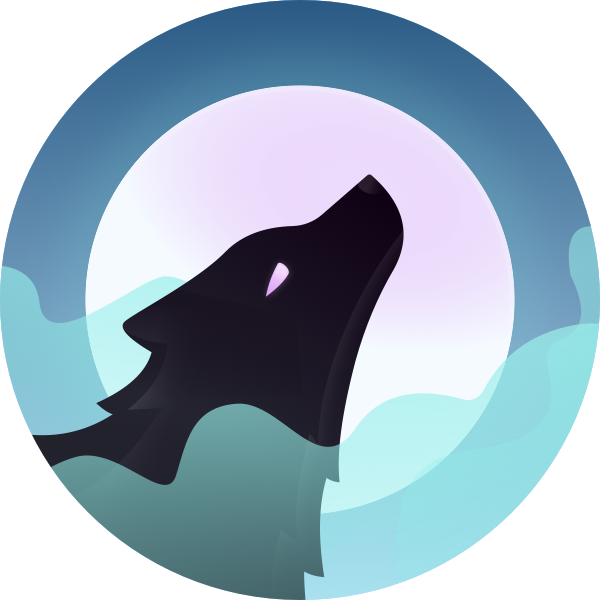
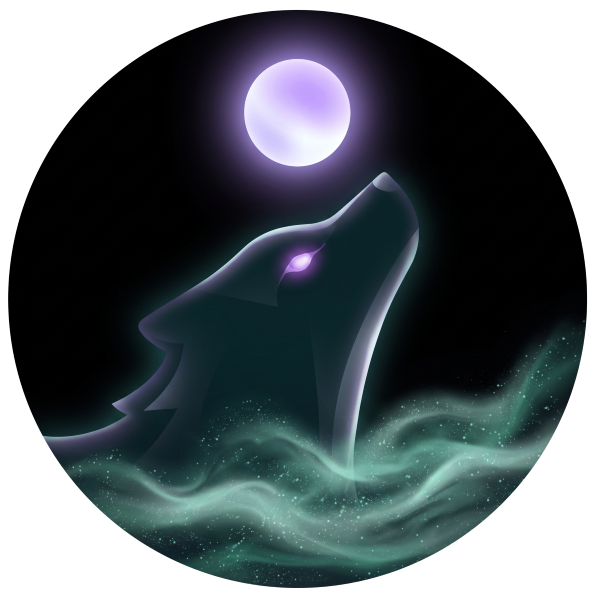
feat: rebrand

diff --git a/README.md b/README.md
@@ -1,6 +1,8 @@
 # donato ariake dark
 
-![Title image](assets/ariake_dark_github.png)
+<p align="center">
+ <img src="assets/icon.png" alt="donato ariake dark logo" width="300"/>
+</p>
 
 <p align="center">
   <a href="https://marketplace.visualstudio.com/items?itemName=ebdonato.donato-ariake-dark">VS Code Marketplace</a>
@@ -8,12 +10,16 @@
   <a href="https://open-vsx.org/extension/ebdonato/donato-ariake-dark">Open VSX Registry</a>
 </p>
 
-Dark theme for VS Code and Google Antigravity IDE, forked from [Ariake Dark](https://github.com/a-wart/ariake-dark) by [Artem](https://github.com/a-wart), and that one forked from [Ariake Dark](https://github.com/pathtrk/ariake-dark-syntax) by [@pathtrk](https://github.com/pathtrk/).
+Dark theme for VS Code and Google Antigravity IDE, **inspired by** — but not the same as — [Ariake Dark](https://github.com/a-wart/ariake-dark) by [Artem](https://github.com/a-wart), which itself was derived from [Ariake Dark](https://github.com/pathtrk/ariake-dark-syntax) by [@pathtrk](https://github.com/pathtrk/).
 
-Ariake is a syntax theme inspired by Japanese traditional colors and the poetry composed 1000 years ago. This fork ships two variants:
+This is an independent reinterpretation of the Ariake palette, not a fork or a copy. The original theme by [@pathtrk](https://github.com/pathtrk/) draws on Japanese traditional colors and the poetry composed 1000 years ago. This version reworks that aesthetic with its own color choices, token mappings, and surface styling, and ships two variants:
 
 - **Flat** — soft surfaces, standard editor background.
 - **OLED** — true black background for OLED displays and reduced bloom.
+
+If you enjoy the original Ariake Dark, please support its authors. This extension is a separate project created by [Eduardo DONATO](https://github.com/ebdonato) and is not affiliated with, endorsed by, or derived from the original themes.
+
+> The original theme Ariake Dark can be found [here](https://marketplace.visualstudio.com/items?itemName=wart.ariake-dark).
 
 "有明の　つれなく見えし　別れより　暁ばかり　憂きものはなし" - Mibu no Tadamine (壬生忠岑)
 